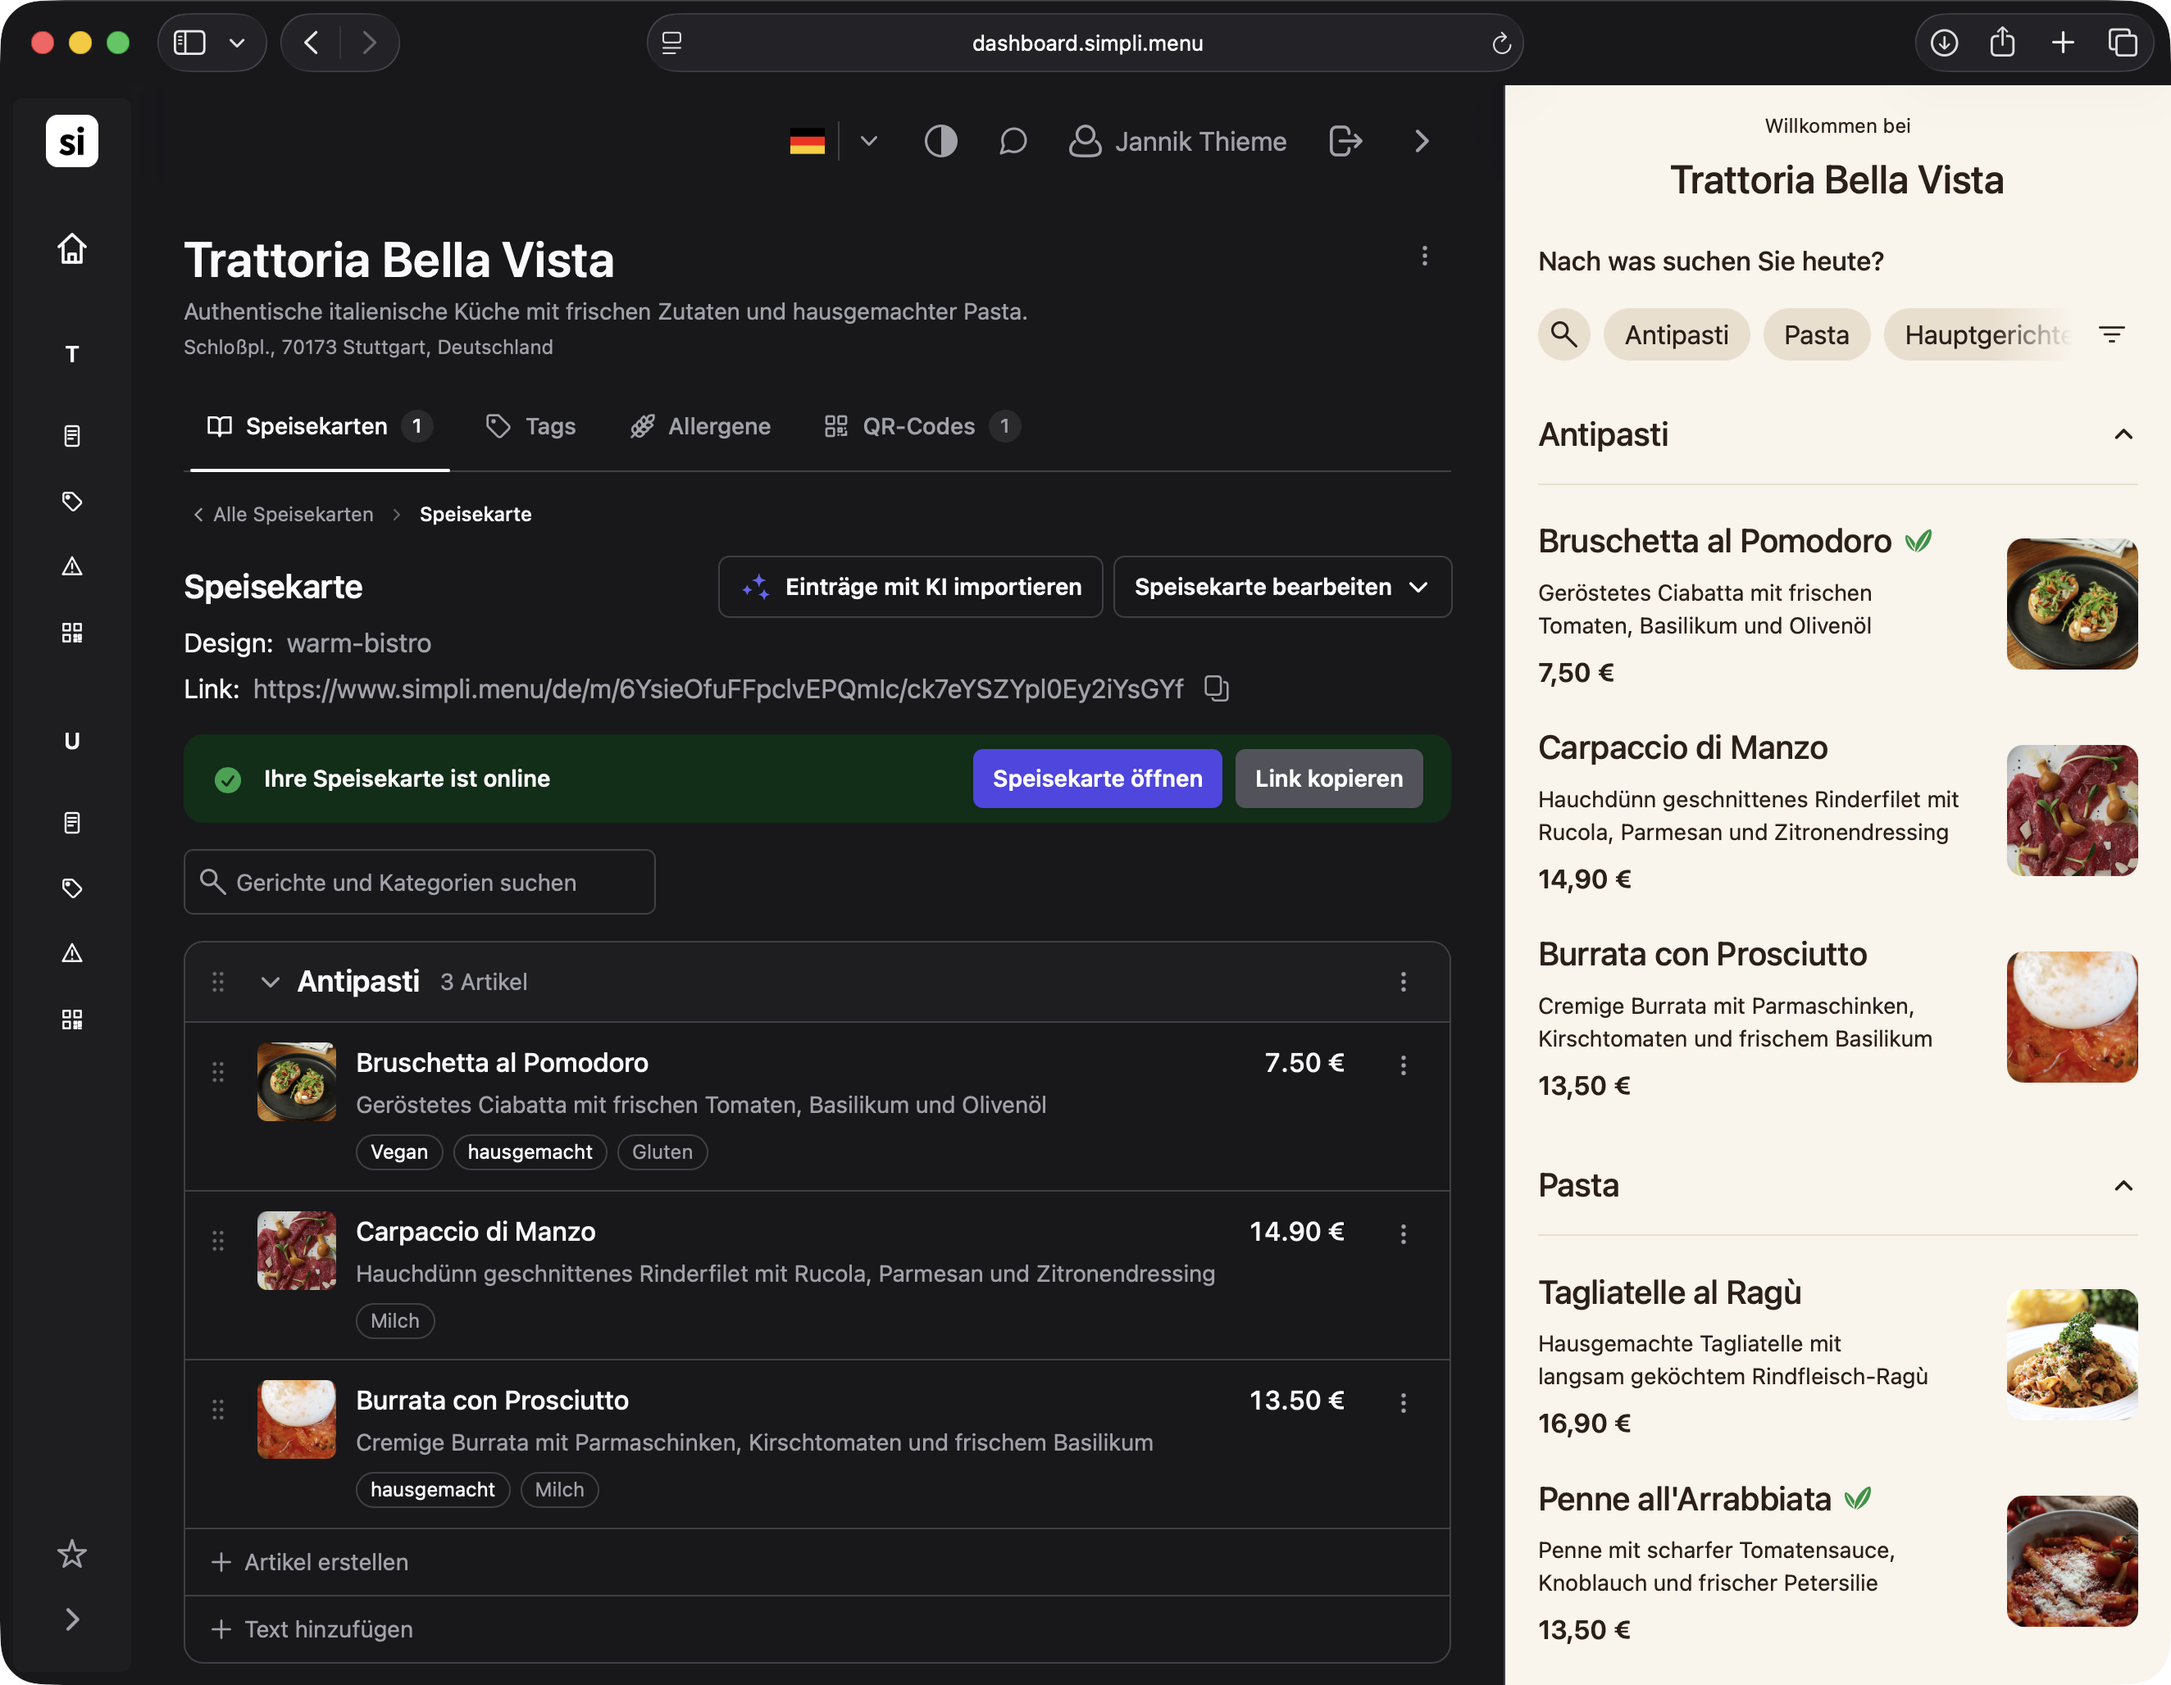
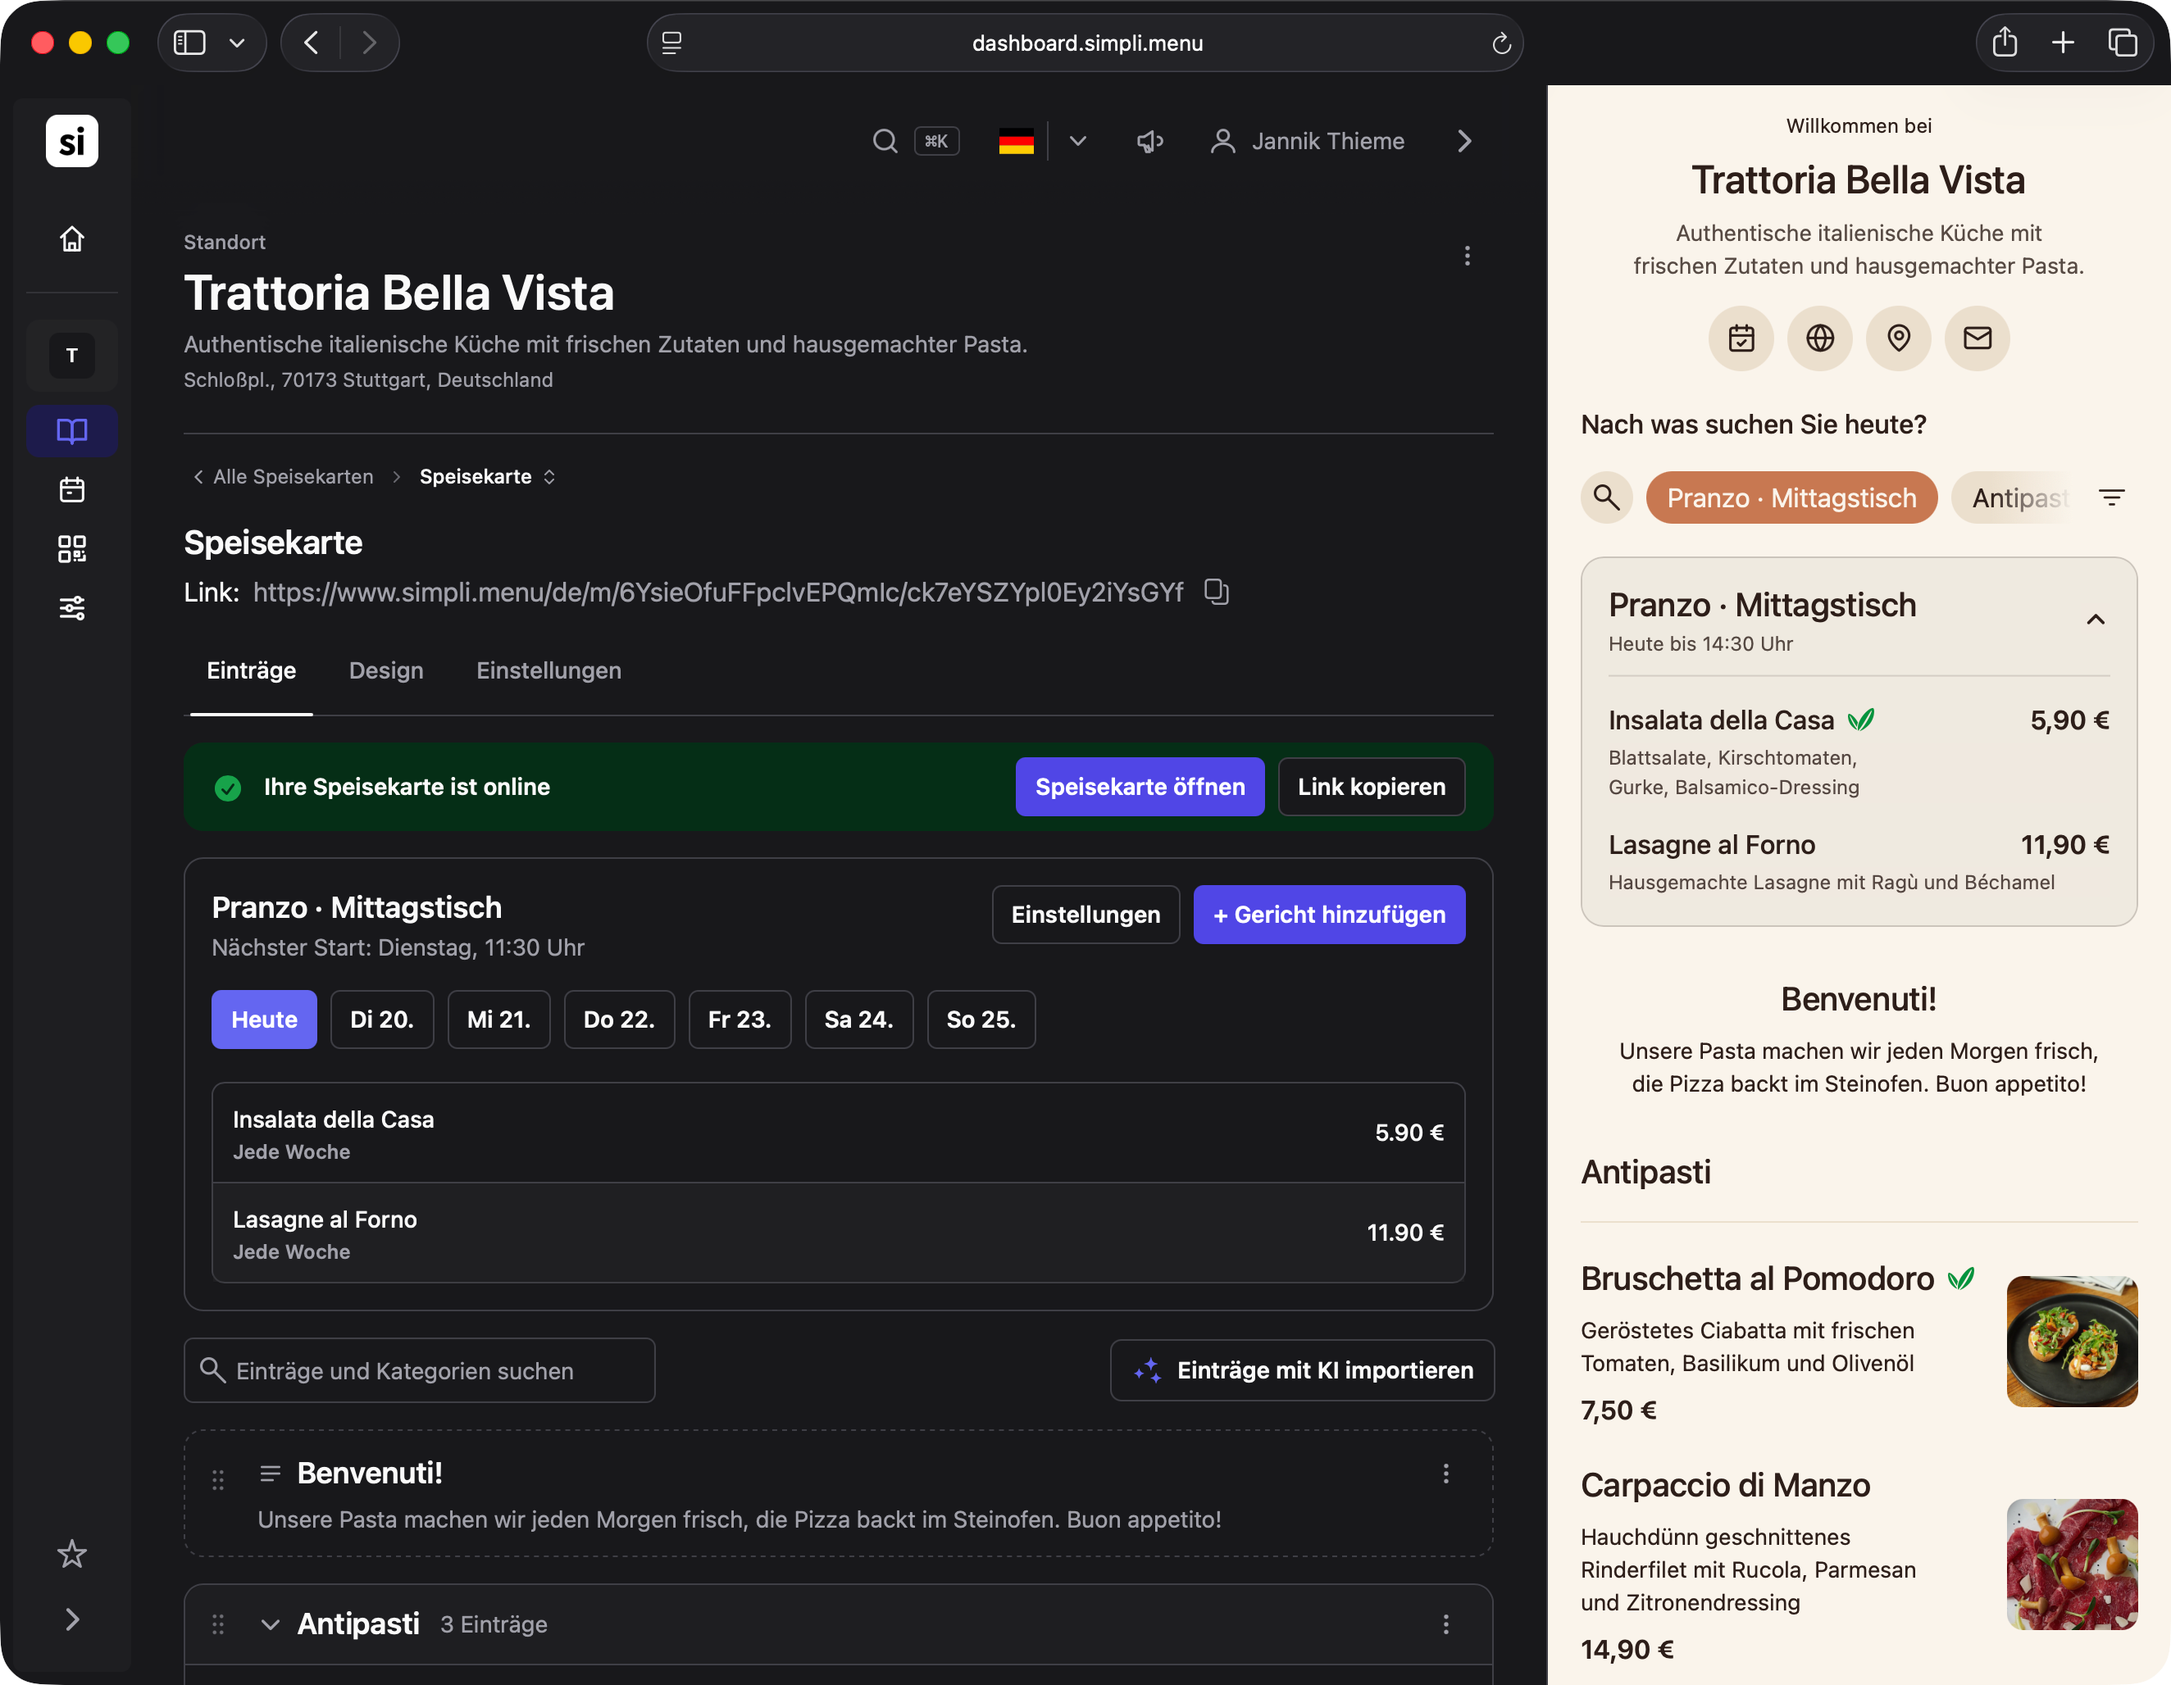
feat: update Simpli project with new screenshots, assistant and origin story

diff --git a/src/lib/translations.ts b/src/lib/translations.ts
@@ -63,7 +63,7 @@ export const translations = {
             {
                 name: "Simpli",
                 description:
-                    "SaaS-Plattform für digitale Speisekarten — Restaurants erstellen in Minuten eine QR-Code-Karte, Gäste öffnen sie direkt im Browser ohne App. Mit KI-gestützter Übersetzung in 6 Sprachen, Echtzeit-Updates, Stripe-Abonnements und individuellem QR-Code-Generator.",
+                    "Entstanden bei einem Essen mit Freunden bei einem Italiener in Stuttgart: Hinter dem QR-Code auf dem Tisch steckte eine veraltete PDF-Karte. Mit Simpli laden Restaurants ihre bestehende Karte als PDF oder Foto hoch, die KI macht daraus in Minuten eine digitale Speisekarte, die Gäste direkt im Browser öffnen. Ein KI-Assistent im Dashboard setzt Änderungen per Chat um (Preise, Übersetzungen, Design) und übernimmt sie erst nach Bestätigung. Dazu 6 Sprachen, Echtzeit-Updates, Stripe-Abonnements und ein eigener QR-Code-Generator.",
                 type: "Eigenprojekt",
             },
             {
@@ -191,7 +191,7 @@ export const translations = {
             {
                 name: "Simpli",
                 description:
-                    "SaaS platform for digital menus — restaurants create a QR code menu in minutes, guests open it directly in the browser without an app. With AI-powered translation into 6 languages, real-time updates, Stripe subscriptions, and a custom QR code generator.",
+                    "Born over dinner with friends at an Italian restaurant in Stuttgart, where the QR code on the table led to an outdated PDF menu. With Simpli, restaurants upload their existing menu as a PDF or photo, and AI turns it into a digital menu in minutes that guests open right in the browser. An AI assistant in the dashboard makes changes through chat (prices, translations, design) and applies them only after confirmation. Plus 6 languages, real-time updates, Stripe subscriptions and a custom QR code generator.",
                 type: "Personal Project",
             },
             {

diff --git a/src/app/[lang]/page.tsx b/src/app/[lang]/page.tsx
@@ -31,6 +31,7 @@ import {
     SiJunit5,
     SiSwift,
     SiGooglecloud,
+    SiGooglegemini,
     SiNx,
     SiUnity,
 } from "react-icons/si";
@@ -129,12 +130,12 @@ const projectStaticData = [
             { name: "Next.js 14", icon: SiNextdotjs },
             { name: "React", icon: SiReact },
             { name: "Firebase", icon: SiFirebase },
-            { name: "Google Vertex AI", icon: SiGooglecloud },
+            { name: "Gemini", icon: SiGooglegemini },
             { name: "Stripe", icon: SiStripe },
             { name: "NX", icon: SiNx },
             { name: "Vercel", icon: SiVercel },
         ] as ProjectTag[],
-        images: ["/simpli-main.png", "/simpli-dashboard.png"],
+        images: ["/simpli-main.png", "/simpli-dashboard.png", "/simpli-assistant.png"],
         mobile: false,
         url: "https://simpli.menu",
     },
